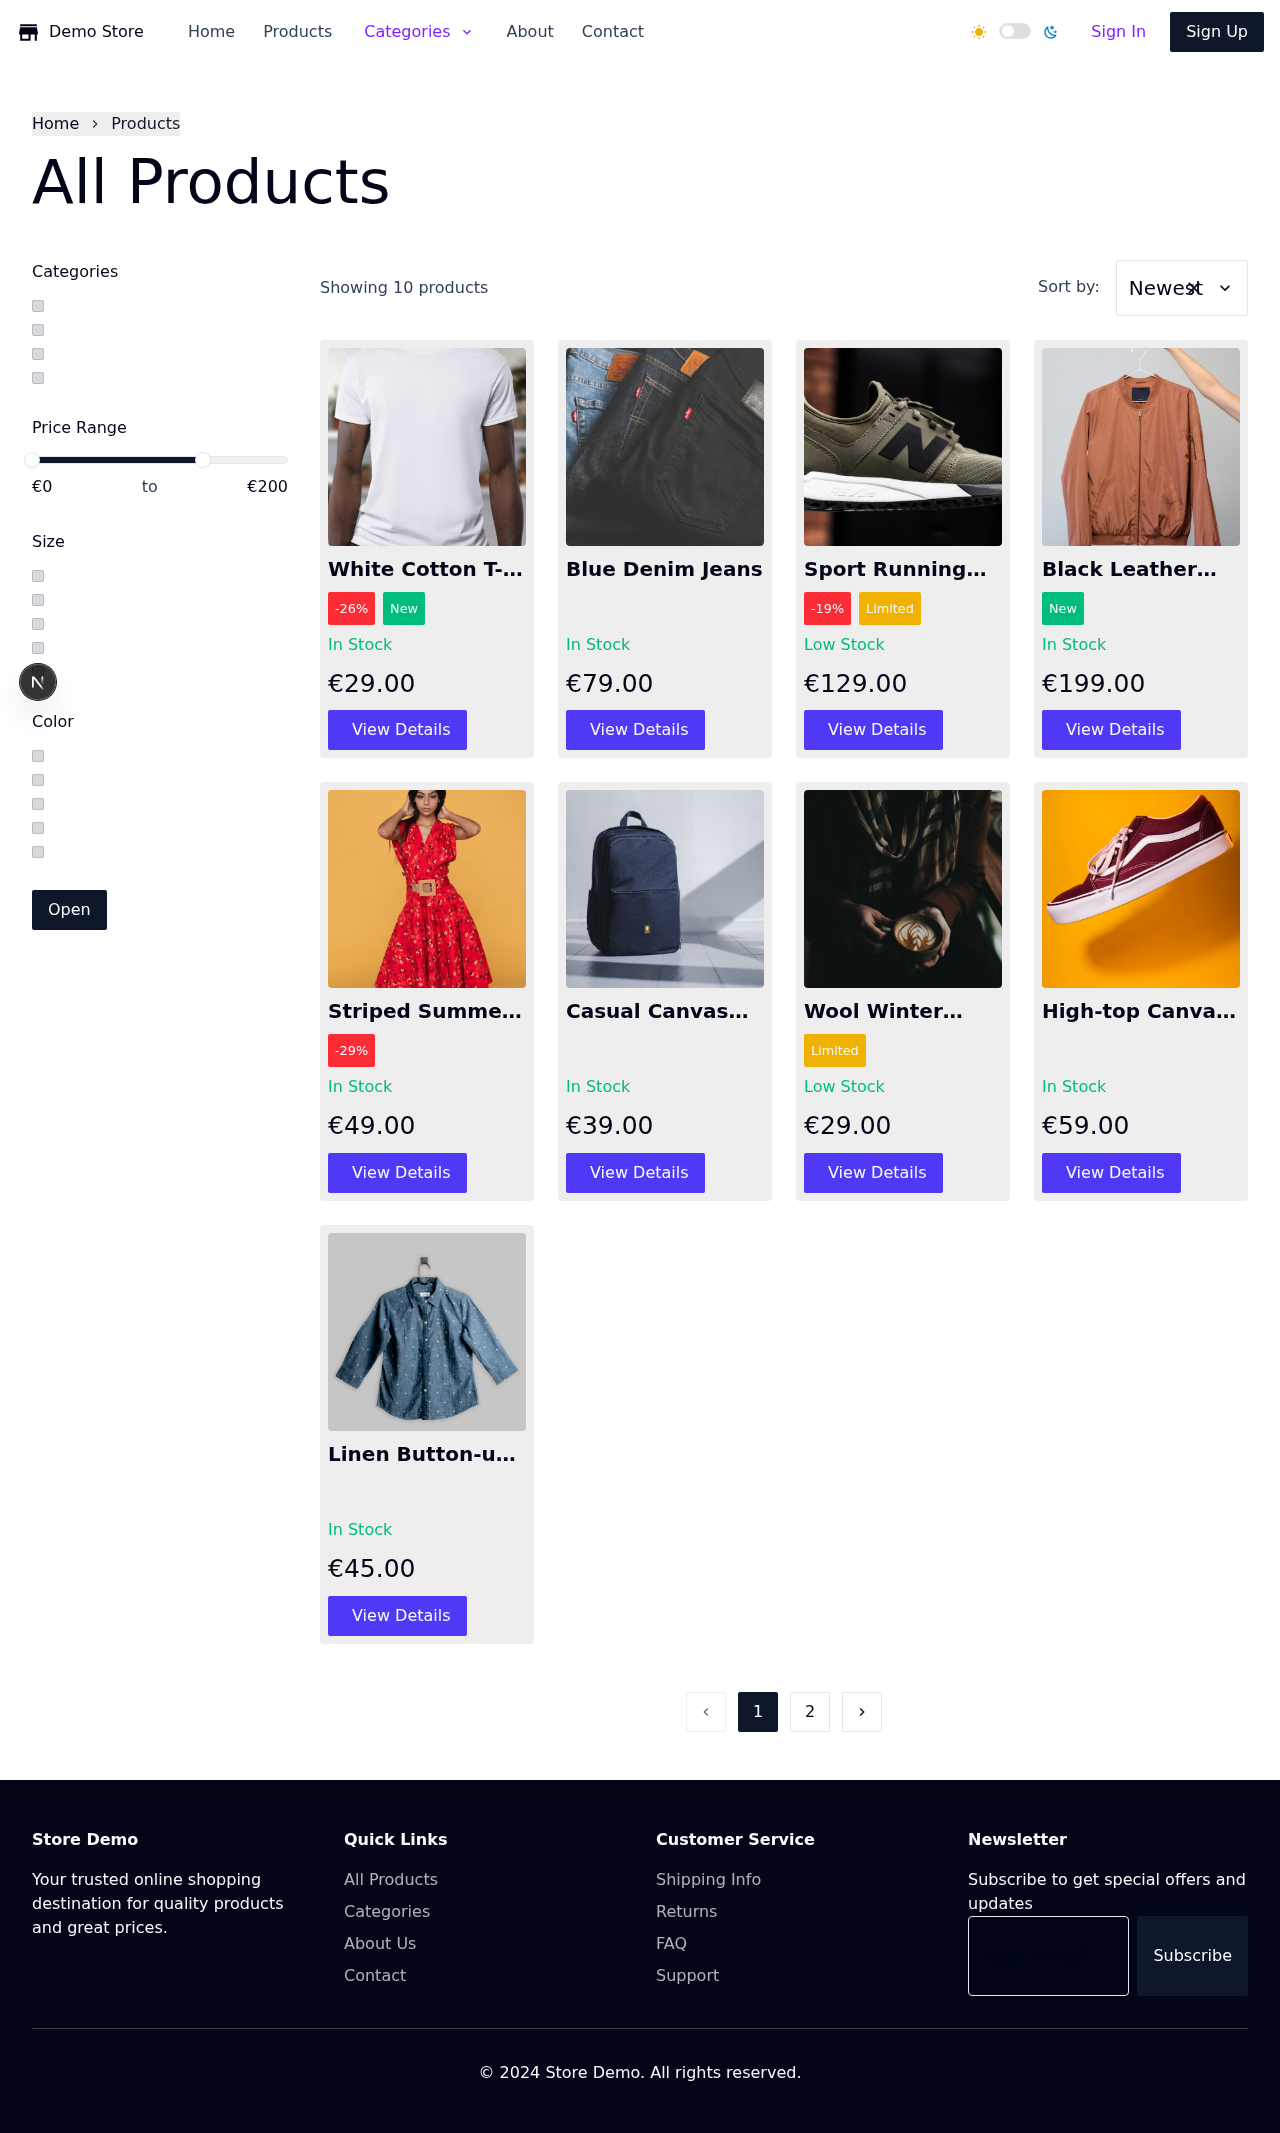
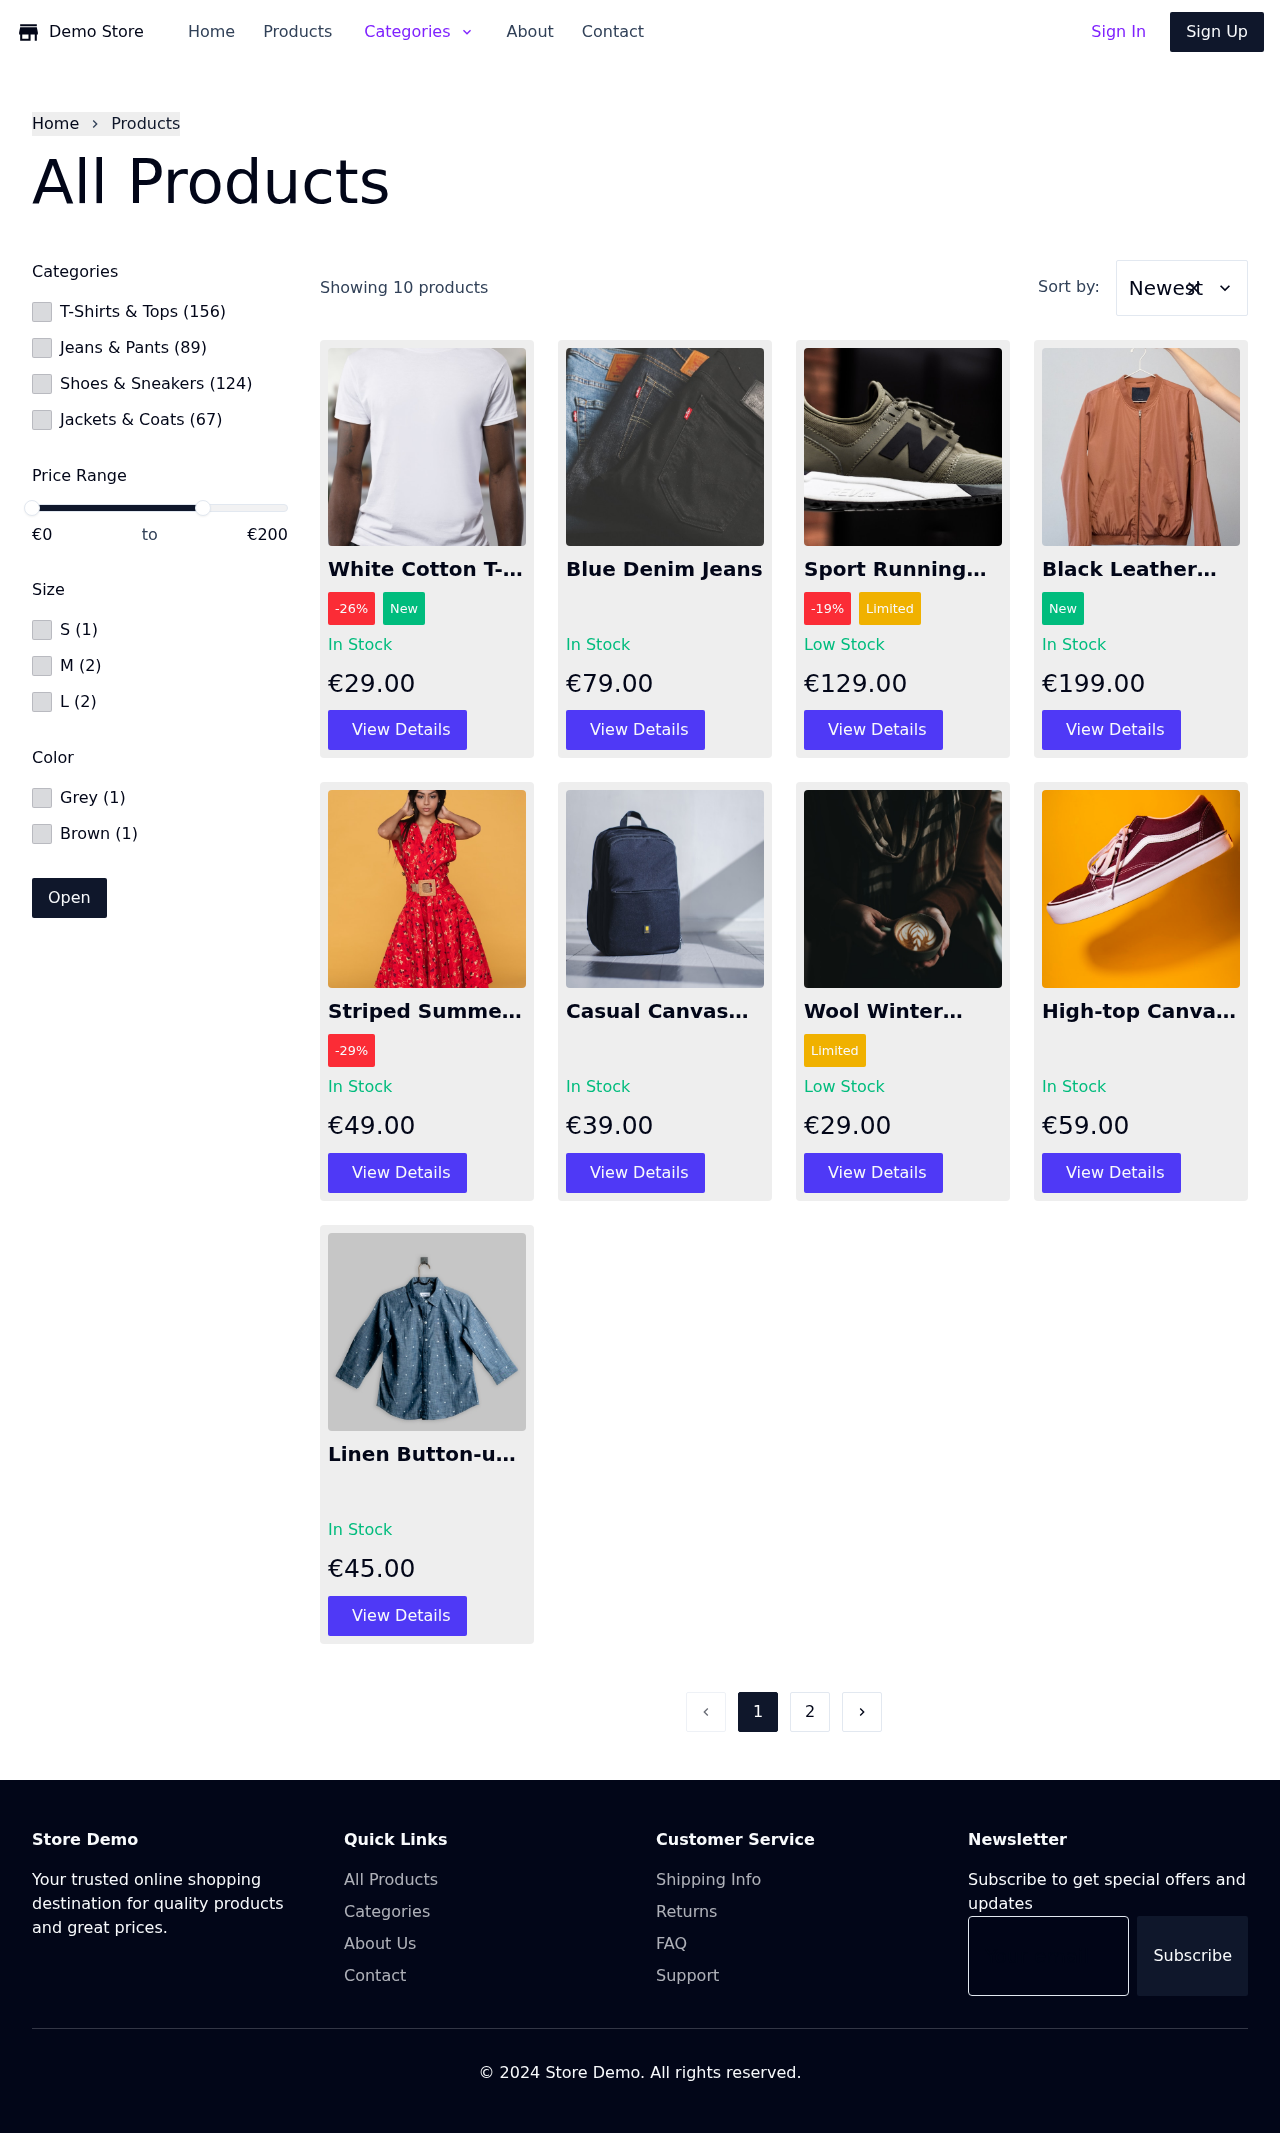
docs: add React 19 notes and fix product card text truncation
- Add React 19 optimization notes to CLAUDE.md files
- Fix product card long names with line-clamp utility
- Add explicit checkbox dimensions to CSS tokens
- Update checkbox stories to use onCheckedChange prop
- Update product page screenshots with working filters

Changed region(s): [[0.0, 0.1238, 0.1562, 0.4332], [0.7812, 0.0, 0.8125, 0.0309], [0.1875, 0.2166, 0.2188, 0.2475]]

diff --git a/libs/ui/stories/molecules/checkbox.stories.tsx b/libs/ui/stories/molecules/checkbox.stories.tsx
@@ -34,13 +34,13 @@ const meta = {
       control: 'boolean',
       description: 'Marks checkbox as required for accessibility',
     },
-    onChange: { action: 'changed' },
+    onCheckedChange: { action: 'changed' },
   },
   args: {
-    checked: undefined,
+    /*checked: undefined,
     defaultChecked: false,
     indeterminate: false,
-    disabled: false,
+    disabled: false,*/
     'aria-invalid': false,
     'aria-required': false,
   },
@@ -204,7 +204,7 @@ export const IndeterminateTest: Story = {
             id="parent"
             checked={allChecked}
             indeterminate={isIndeterminate}
-            onChange={handleParentChange}
+            onCheckedChange={handleParentChange}
           />
           <label htmlFor="parent">
             Select All ({checkedCount}/{items.length})
@@ -218,7 +218,7 @@ export const IndeterminateTest: Story = {
               <Checkbox
                 id={`item-${item.id}`}
                 checked={item.checked}
-                onChange={(checked) => handleChildChange(item.id, checked)}
+                onCheckedChange={(checked) => handleChildChange(item.id, checked)}
               />
               <label htmlFor={`item-${item.id}`}>{item.name}</label>
             </div>

diff --git a/libs/ui/src/molecules/product-card.tsx b/libs/ui/src/molecules/product-card.tsx
@@ -15,7 +15,7 @@ const productCard = tv({
       'border-(length:--border-pc-width) border-pc-border bg-pc',
     ],
     imageSlot: 'object-cover aspect-pc-image h-full rounded-pc-image',
-    nameSlot: 'text-pc-name-fg text-pc-name-size font-pc-name leading-pc-name',
+    nameSlot: 'text-pc-name-fg text-pc-name-size font-pc-name leading-pc-name line-clamp-pc-name',
     priceSlot: 'text-pc-price-fg text-pc-price-size',
     stockStatusSlot: 'text-pc-stock-fg text-pc-stock-size font-pc-stock',
     badgesSlot: 'flex flex-wrap gap-pc-box',

diff --git a/apps/frontend-demo/src/tokens/components/molecules/_checkbox.css b/apps/frontend-demo/src/tokens/components/molecules/_checkbox.css
@@ -21,6 +21,10 @@
   --text-checkbox-icon-md: var(--text-xs);
   --radius-checkbox: var(--radius-sm);
 
+  /* Checkbox dimensions */
+  --width-checkbox: 1.25rem;
+  --height-checkbox: 1.25rem;
+
   --width-indeterminate: 60%;
   --height-indeterminate: 2px;
 }

diff --git a/CLAUDE.md b/CLAUDE.md
@@ -25,6 +25,59 @@ This is an Nx monorepo for an e-commerce platform built with Medusa.js. The proj
 - **Testing**: Vitest
 - **Code Quality**: Biome for linting and formatting
 
+## MCP Servers for Enhanced Development
+
+This project includes MCP (Model Context Protocol) servers configuration to enhance Claude Code capabilities. Start Claude Code with: `claude --mcp-config .mcp.json`
+
+### Available MCP Servers
+
+1. **puppeteer-mcp** - Automated browser testing and screenshots
+   - Use for: E2E testing, visual regression tests, automated screenshots
+   - Example: "Use puppeteer to capture screenshots of all product pages"
+
+2. **github** - GitHub repository management
+   - Use for: Creating PRs, managing issues, reviewing code
+   - Example: "Create a GitHub issue for refactoring CSS tokens"
+
+3. **tavily-mcp** - Advanced web search
+   - Use for: Researching e-commerce best practices, competitor analysis
+   - Example: "Search for modern e-commerce UI patterns for checkout flow"
+
+4. **sequential-thinking** - Complex problem solving
+   - Use for: Architecture decisions, refactoring planning
+   - Example: "Plan the migration of all CSS files to new naming convention"
+
+5. **desktop-commander** - File system operations
+   - Use for: Batch file operations, asset management
+   - Example: "Rename all product images to follow naming convention"
+
+6. **taskmaster** - Project management
+   - Use for: Sprint planning, task tracking, backlog management
+   - Example: "Create a task list for implementing dark mode"
+
+### Recommended MCP Workflows
+
+**Component Documentation**:
+```
+1. Use puppeteer to screenshot component variations
+2. Use taskmaster to track documentation tasks
+3. Use github to create PR with docs
+```
+
+**CSS Refactoring**:
+```
+1. Use sequential-thinking to plan refactoring strategy
+2. Use desktop-commander for batch file operations
+3. Use github to create refactoring PR
+```
+
+**Feature Implementation**:
+```
+1. Use tavily to research best practices
+2. Use taskmaster to break down into subtasks
+3. Use puppeteer for visual testing
+```
+
 ## Development Commands
 
 ### Package Management

diff --git a/apps/frontend-demo/CLAUDE.md b/apps/frontend-demo/CLAUDE.md
@@ -72,6 +72,7 @@ netlify deploy
 ### Code Standards
 - Use TypeScript for all new files
 - Follow functional component patterns with hooks
+- **React 19**: We use React 19 - avoid unnecessary useCallback, useMemo, and useEffect as React 19 handles optimizations automatically
 - Implement proper error boundaries
 - Ensure all interactive elements are keyboard accessible
 - **After every file modification, check TypeScript errors** - run `npx tsc --noEmit` and fix any issues
